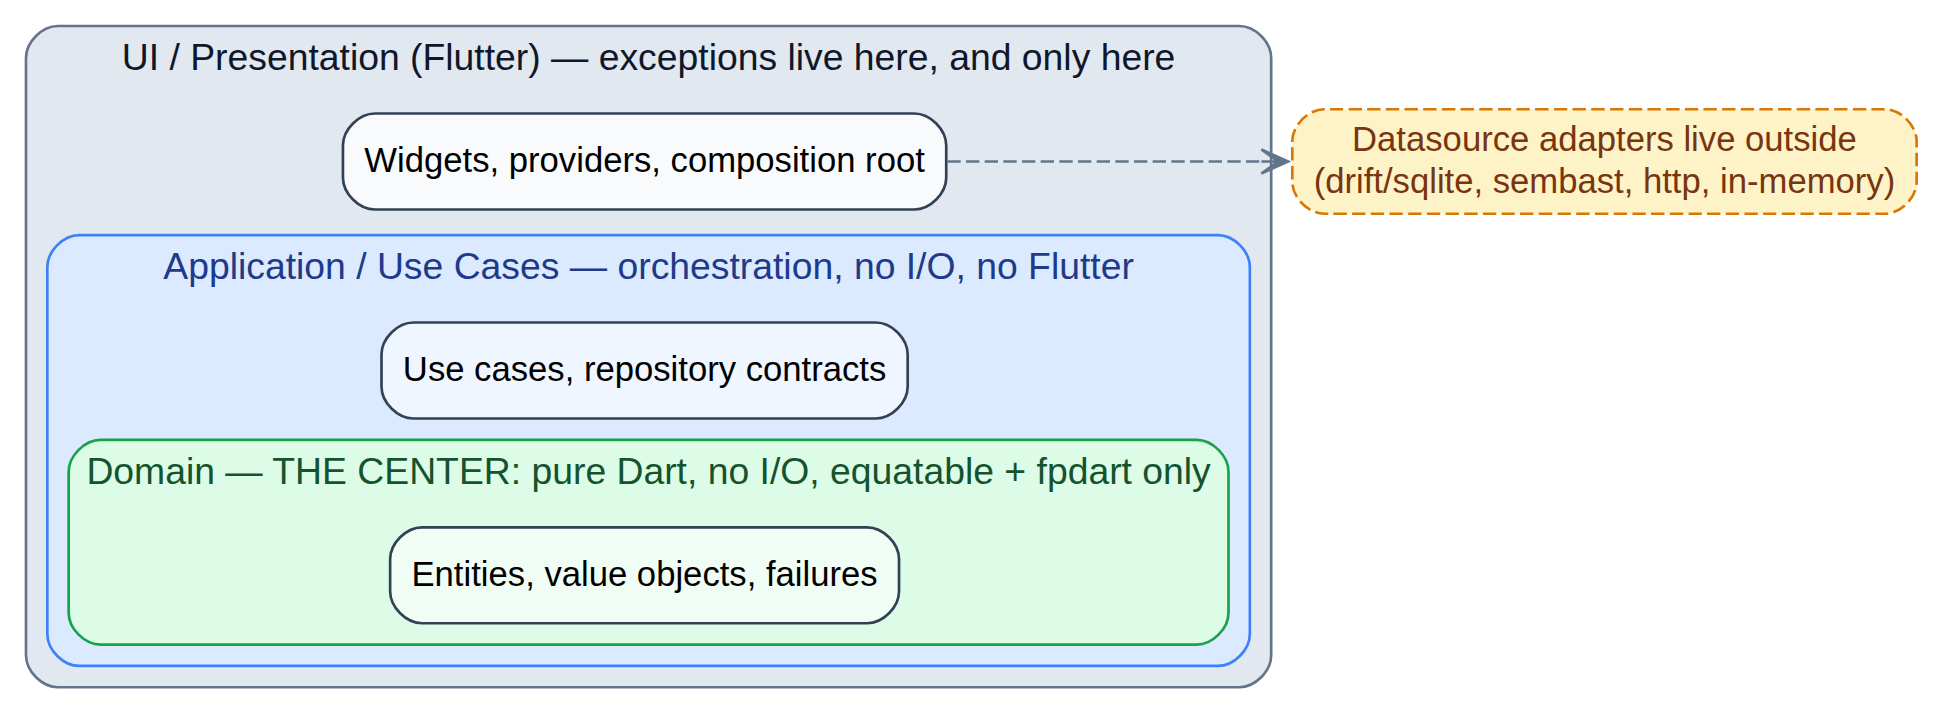
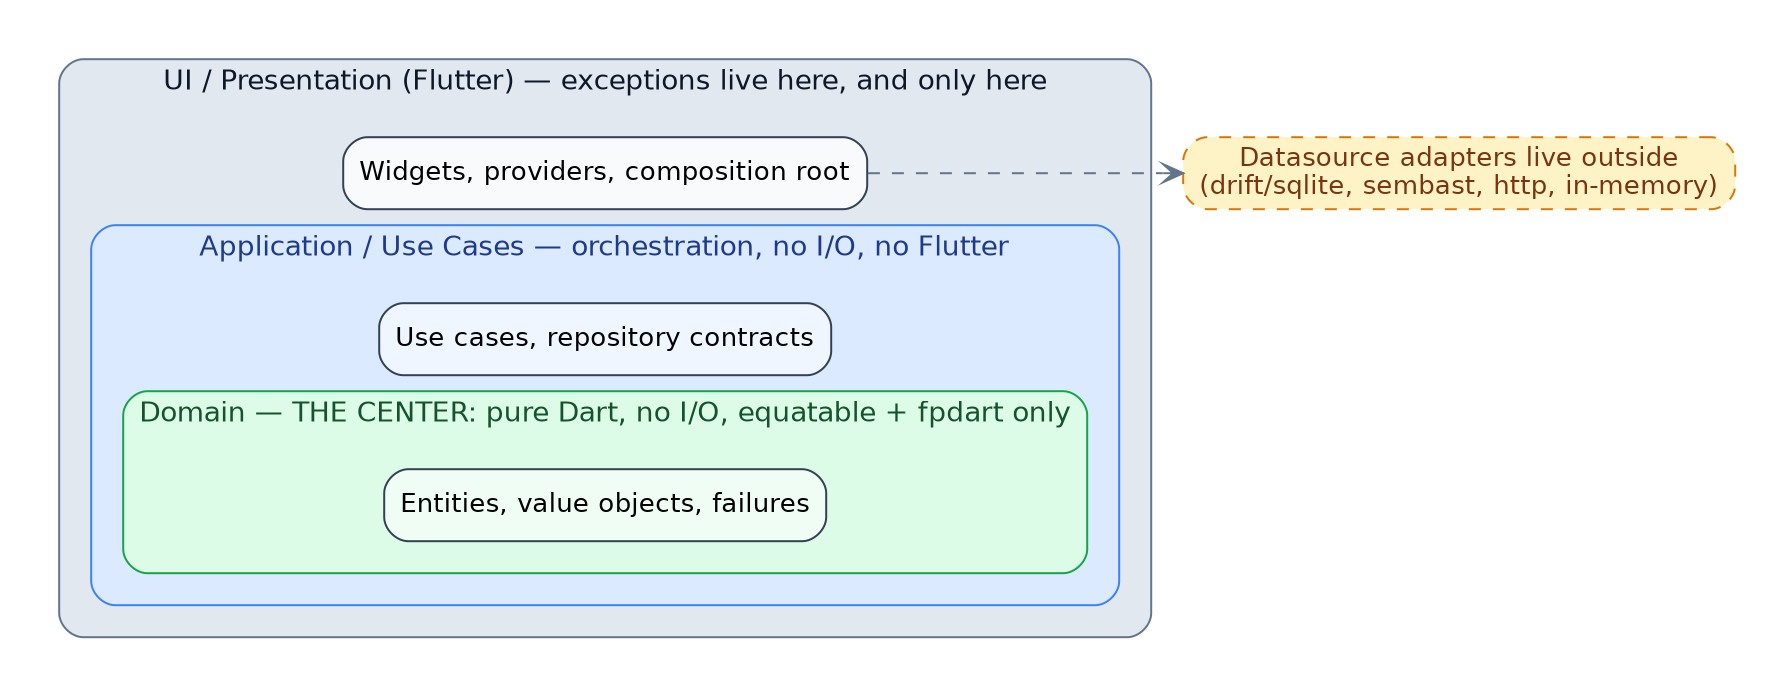
feat(book): chapter 0 (clean architecture lineage) + §04 intro; dot-CLI diagram pipeline
- chapter 0: clean architecture history (layered -> hexagonal -> Martin's
  bulls-eye) with explicit attribution; Rust/Result parallel
- §01 intro: attribution + Rust callback
- §04 intro: functional core — failure as a value, sealed hierarchies,
  exceptions at the boundary only
- diagrams: render via graphviz dot CLI (scripts/render-diagrams.sh);
  provisional until PlantUML server is stood up

Changed region(s): [[0.0, 0.0302, 0.9899, 0.9655]]

diff --git a/book/chapters/04-functional-core.md b/book/chapters/04-functional-core.md
@@ -1,0 +1,52 @@
+# 4. The Functional Core: Failure as a Value
+
+This is the chapter the whole doctrine has been circling since chapter 1.
+The four laws say failure is a value and exceptions live only at the UI
+ring; here is what that means in code, and why it is worth the ceremony.
+
+**Exceptions are invisible control flow.** When code throws, the compiler
+is not on your side anymore. Every function between the throw and the
+catch is a hole in your understanding: the happy path is the only path
+the type system checks, and the error path is whatever the runtime
+decides. That is not error handling; that is archaeology. You find the
+holes at 2 a.m., when the widget tree is on fire and the stack trace
+points at a `Future` that swallowed the real exception two frames ago.
+
+**Failure as a value makes the compiler a reviewer.** The signature
+`Future<Either<AccountFailure, Account>>` says it plainly: this call can
+fail, here is exactly how, and you cannot ignore that and walk away. The
+type system forces the conversation that exceptions let you skip. The
+bible's own doc for this section calls the failure style *rust-style* —
+and that is the right word. Chapter 0 promised that Dart with FP is like
+Rust for people who don't hate themselves; this is the chapter where the
+promise gets kept. `Either<AccountFailure, Account>` is `Result<T, E>`
+with a calmer personality, and a `sealed` failure hierarchy is a Rust
+enum with the exhaustive match built in.
+
+**Closed hierarchies, exhaustive switches.** Failures are defined in the
+domain package, per layer, and closed: an abstract base with final or
+`sealed` leaves. That one word — `sealed` — is the whole trick. A
+`switch` over the failures must be exhaustive, so when you add a new
+failure case, the compiler walks you through every call site that needs
+to care. Adding a failure is a project-wide conversation, not a silent
+gap. This is what chapter 1 meant by turning error handling into a
+type-system feature; here is the mechanism.
+
+**Where exceptions still exist.** The rule is stated once, loudly: no
+`throw`, no `try/catch` inside the bulls-eye. Third-party libraries
+throw — that is their convention, and we do not fight it — so the
+adapter boundary converts their exceptions into a `Left`, exactly once,
+at the door: `TaskEither.tryCatch(...)`. The UI ring is the only place
+exceptions are raised or caught, and even there they are converted into
+UI state as fast as possible. Datasource failures get their own low-level
+hierarchy, mapped upward by the repository into domain failures. Nothing
+leaks across layers; each layer speaks its own dialect, on purpose.
+
+**The daily habit.** You write a use case; you document it; you handle
+both sides from day one, and the tests cover both sides from day one.
+The choreography stops being ceremony and becomes rhythm — the type
+table (sync, async, absent, rarely absent) picks the tool, the signature
+reads like the business operation, and `Either.Do` keeps multi-step
+chains readable without a tower of `flatMap`s. The result is code where
+"what can go wrong" is always one glance away, in the signature, instead
+of one debugger session away, in the stack.

diff --git a/book/chapters/00-clean-architecture.md b/book/chapters/00-clean-architecture.md
@@ -1,0 +1,50 @@
+# 0. Clean Architecture: Where This Comes From
+
+Before the bulls-eye was our diagram, it was somebody else's. That is not
+a disclaimer — it is the point. The doctrine in this book is not a house
+style invented in a meeting; it is the current stop on a long road, and
+the bulls-eye is the signpost. If you know where the road came from, the
+rules stop looking arbitrary.
+
+**The road.** Software used to be a flat file of instructions, and then
+OOP gave us objects, and layered architecture gave us the first real
+answer to "where does this code go?": presentation on top, business in
+the middle, data at the bottom. It worked — until it didn't. Layers
+leaked. The shape of the database crept into the business objects. The UI
+decided what the domain meant.
+
+Alistair Cockburn's Hexagonal Architecture — ports and adapters, 2005 —
+made the decisive move: the application sits in the center, and the
+outside world connects through *ports*. Databases, UIs, APIs: all
+adapters, interchangeable at the edges. The center does not know what is
+outside it.
+
+Robert C. Martin drew the same idea as circles in 2012 and named it Clean
+Architecture. The bulls-eye: entities at the center, use cases wrapped
+around them, adapters outside, frameworks at the rim. Two rules carry the
+whole picture: dependencies point inward, and the center knows nothing
+about the outside.
+
+**What we keep, what we add.** The bulls-eye in chapter 1 is Martin's
+diagram. What the bible contributes is a Dart/Flutter instantiation with
+the loose ends tied: the two-adapter rule makes "interchangeable adapters"
+enforceable instead of aspirational; fpdart's `Either` makes "failure is a
+value" a type you cannot ignore; sealed per-layer failures, terse docs,
+one barrel per package, no builders except drift — those are the sharp
+edges that turn a diagram into a discipline.
+
+**The Rust parallel.** The failure rule deserves a moment, because it is
+quietly Rust-flavored. Rust has no exceptions; failure is a value —
+`Result<T, E>` is a type, not a jump. Panics are reserved for the
+boundary, where continuing would be lying. The bible's rule — exceptions
+only at the UI ring, failure as a value everywhere inside — is the same
+philosophy, and fpdart's `Either` is `Result`'s calmer cousin. In some
+ways, Dart with FP is like Rust for people who don't hate themselves: you
+get the type-checked failure handling without the borrow checker arguing
+with you about everything.
+
+**What this means for the rest of the book.** When a rule looks
+arbitrary, trace it back — the lineage is usually talking. When this book
+says "the standard wins," it means the standard wins until a better idea
+comes up the road; chapter 11 is the record of those forks, made on
+purpose.

diff --git a/book/README.md b/book/README.md
@@ -8,8 +8,8 @@ source of truth; this `book/` folder adds the narrative layer.
 - `front-matter.md`, `how-to-read.md`, `back-matter.md` — book-only prose
 - `chapters/NN-*.md` — narrative intros prepended to doctrine section NN.
   Missing intros are fine: the section passes through raw.
-- `diagrams/` — committed PNGs + `src/` sources (graphviz DOT rendered via
-  viz.js in headless Chromium, one renderer for all diagrams)
+- `diagrams/` — committed PNGs + `src/` graphviz DOT sources (rendered with
+  the `dot` CLI via `scripts/render-diagrams.sh`)
 - `cover.html` — cover source; `cover.png` is the rendered result
 - `style/epub.css` — epub styling
 - `metadata.yaml` — pandoc metadata (title, author, rights)
@@ -34,7 +34,10 @@ Final gate before publishing: `epubcheck` (W3C validator).
 
 ## Re-rendering diagrams
 
-Diagram sources are graphviz DOT (`.dot`). The renderer pages load the
-pinned viz.js build (`@viz-js/viz@3.8.0`) in headless Chromium and
-screenshot the SVG — see the `browser-diagram-rendering` skill. Rendered
-PNGs are committed so the epub build itself has no browser dependency.
+Diagram sources are graphviz DOT (`.dot`). With graphviz installed,
+`bash scripts/render-diagrams.sh` renders them straight to PNG via the
+`dot` CLI (build-book.sh does this automatically when `dot` is found).
+Rendered PNGs are committed, so the epub build works even on machines
+without graphviz. The cover (`cover.html` → `cover.png`) still uses the
+headless-Chromium screenshot route — see the `browser-diagram-rendering`
+skill for that pipeline.

diff --git a/book/chapters/01-architecture.md b/book/chapters/01-architecture.md
@@ -9,6 +9,11 @@ The bulls-eye exists so that file never happens. It is the doctrine's
 answer to a simple question: *what is the part of your app you can least
 afford to re-learn?*
 
+The shape itself is not new — it is Robert C. Martin's Clean Architecture
+diagram, and chapter 0 tells the full lineage. What this doctrine adds is
+the Dart/Flutter instantiation: the two-adapter rule, failures as values,
+and the discipline that makes the diagram hold.
+
 ![The bulls-eye: dependencies point inward; exceptions live only in the UI ring](book/diagrams/bulls-eye.png)
 
 The answer is the center: the entities and rules that decide what your
@@ -28,6 +33,13 @@ The Four Laws are just that answer, stated as constraints:
 4. **Exceptions are a UI-boundary phenomenon.** Inside the bulls-eye,
    failure is a value. This is the rule that turns "error handling" from
    a chore into a type-system feature.
+
+Rust programmers will recognize the fourth law immediately: Rust has no
+exceptions, `Result<T, E>` is a type, and panics belong only at the
+boundary. fpdart's `Either` is the same idea — failure as a value, wired
+into the type system. In some ways, Dart with FP is like Rust for people
+who don't hate themselves: the safety, without the borrow checker arguing
+with you about everything.
 
 ![One-direction flow, with two adapters sharing one contract suite](book/diagrams/dependency-flow.png)
 
